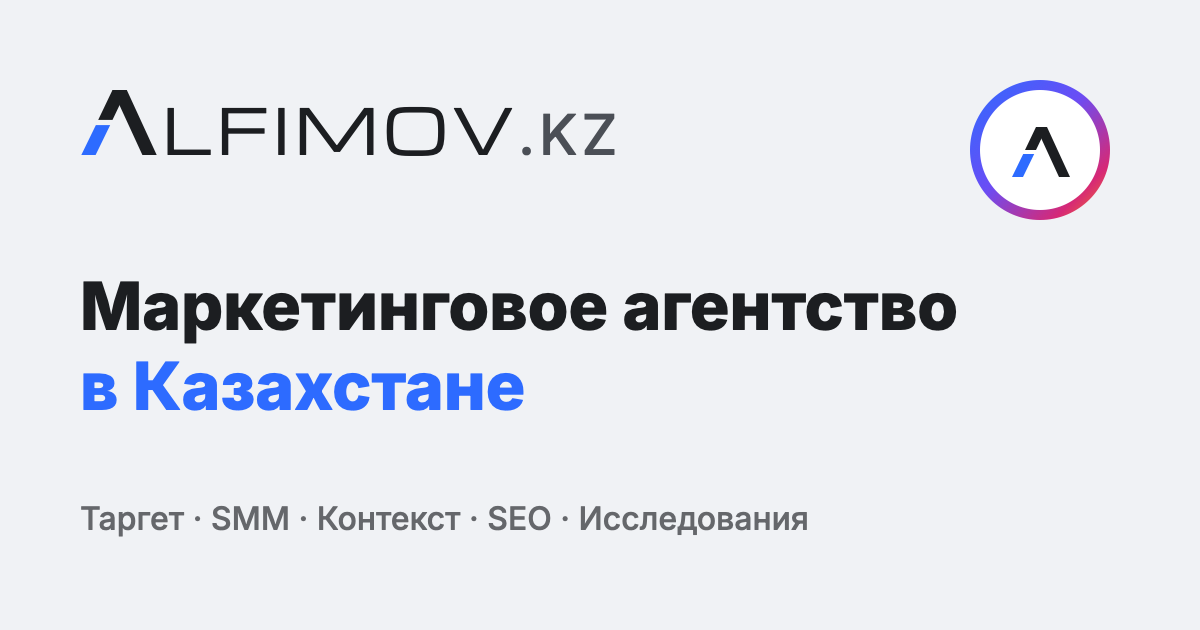
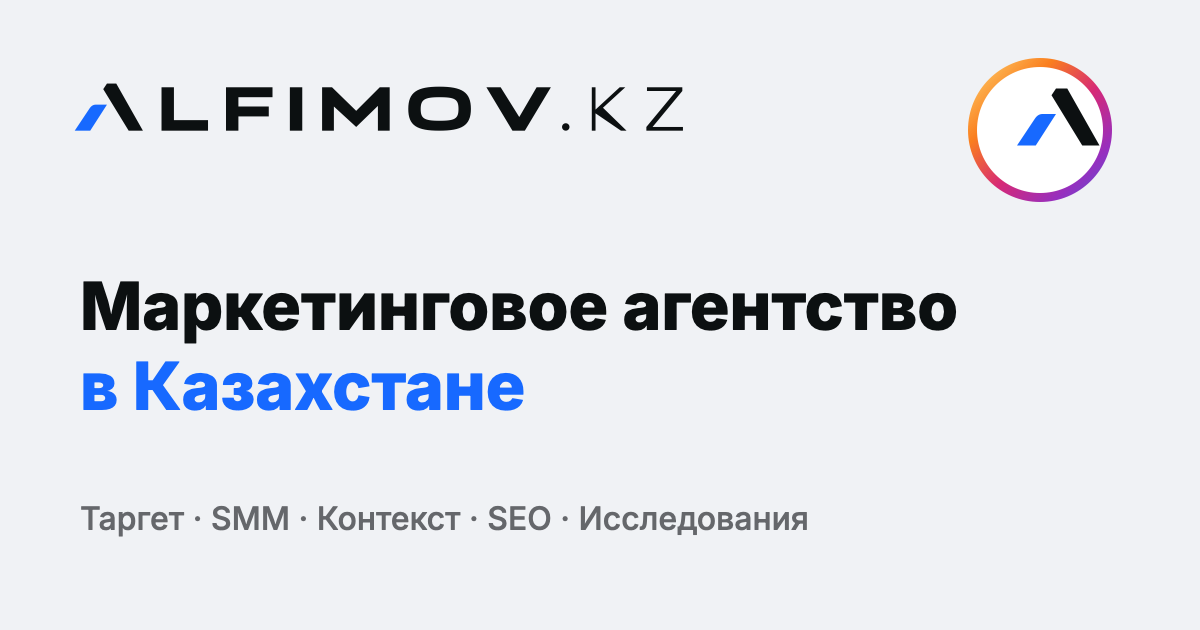
brand: финальный логотип ALFIMOV.KZ, фавиконки, манифест, цвета #1769FF/#0C1011

Changed region(s): [[0.0617, 0.1206, 0.5858, 0.2714], [0.8017, 0.0905, 0.925, 0.3619]]

diff --git a/static/assets/style.css b/static/assets/style.css
@@ -4,13 +4,13 @@
   --bg: #f0f2f5;
   --surface: #ffffff;
   --hover: #f2f3f5;
-  --ink: #1c1e21;
+  --ink: #0c1011;
   --ink-2: #4b4f56;
   --muted: #65676b;
   --line: #e4e6eb;
-  --blue: #2d6bff;
-  --blue-hover: #1a56e8;
-  --blue-soft: #e8f0ff;
+  --blue: #1769ff;
+  --blue-hover: #0f57e0;
+  --blue-soft: #e7efff;
   --green: #42b72a;
   --green-hover: #36a420;
   --ig: linear-gradient(45deg, #feda75 0%, #fa7e1e 25%, #d62976 50%, #962fbf 75%, #4f5bd5 100%);
@@ -20,7 +20,6 @@
   --radius-lg: 16px;
   --wrap: 1140px;
   --font: "Inter", system-ui, -apple-system, "Segoe UI", Roboto, Helvetica, Arial, sans-serif;
-  --font-logo: "Michroma", "Arial Black", sans-serif;
 }
 
 *, *::before, *::after { box-sizing: border-box; }
@@ -55,13 +54,10 @@ section[id] { scroll-margin-top: 72px; }
 @media (min-width: 720px) { .panel { padding: 32px; } }
 
 /* logo */
-.logo {
-  display: inline-flex; align-items: center; gap: .08em; text-decoration: none; color: var(--ink);
-  font-family: var(--font-logo); font-size: 19px; line-height: 1; letter-spacing: .06em; white-space: nowrap;
-}
-.logo-a { width: auto; height: .92em; margin-right: .02em; }
-.logo-word { font-weight: 400; }
-.logo-kz { font-family: var(--font); font-weight: 400; letter-spacing: .12em; color: var(--ink-2); margin-left: .05em; font-size: .92em; }
+.logo { display: inline-flex; align-items: center; color: #0c1011; text-decoration: none; }
+.logo svg { height: 20px; width: auto; }
+@media (min-width: 720px) { .logo svg { height: 22px; } }
+.logo-mark { width: auto; height: 16px; }
 
 /* buttons */
 .btn {
@@ -146,7 +142,7 @@ section[id] { scroll-margin-top: 72px; }
 .post-hd { display: flex; align-items: center; gap: 10px; padding: 12px 14px; }
 .avatar { display: grid; place-items: center; width: 38px; height: 38px; border-radius: 50%; background: var(--ig); padding: 2px; flex: none; }
 .avatar > span { display: grid; place-items: center; width: 100%; height: 100%; border-radius: 50%; background: #fff; border: 2px solid #fff; color: var(--ink); }
-.avatar .logo-a { height: 13px; }
+.avatar .logo-mark { height: 15px; }
 .post-who { display: grid; line-height: 1.25; font-size: 14px; }
 .post-who small { color: var(--muted); font-size: 12px; }
 .post-dots { margin-left: auto; color: var(--ink); letter-spacing: 1px; font-size: 12px; }
@@ -154,7 +150,7 @@ section[id] { scroll-margin-top: 72px; }
   aspect-ratio: 1 / 1; padding: 28px; display: flex; flex-direction: column; justify-content: space-between;
   background:
     radial-gradient(circle at 85% 15%, rgba(255, 255, 255, .35), transparent 40%),
-    linear-gradient(150deg, #2d6bff 0%, #6a4df5 45%, #d62976 80%, #fa7e1e 100%);
+    linear-gradient(150deg, #1769ff 0%, #6a4df5 45%, #d62976 80%, #fa7e1e 100%);
   color: #fff;
 }
 .post-title { font-size: clamp(26px, 3.2vw, 32px); font-weight: 800; line-height: 1.1; letter-spacing: -0.02em; margin: 0; }

diff --git a/build.py b/build.py
@@ -30,7 +30,7 @@ PHONE_DISPLAY = "+7 776 902 66 69"
 PHONE_TEL = "+77769026669"
 WHATSAPP_URL = "https://wa.me/77769026669"
 TELEGRAMS = ["fandylol", "etozhefandy"]
-FONT_URL = "https://fonts.googleapis.com/css2?family=Inter:wght@400;500;600;700;800&family=Michroma&display=swap"
+FONT_URL = "https://fonts.googleapis.com/css2?family=Inter:wght@400;500;600;700;800&display=swap"
 ASSET_VER = hashlib.md5(
     b"".join((STATIC / "assets" / f).read_bytes() for f in ("style.css", "main.js"))
 ).hexdigest()[:8]
@@ -77,17 +77,31 @@ def icon(name, cls="ic"):
     )
 
 
-# Знак «Λ» из логотипа: левая нога — чёрный верх и синий низ, правая — чёрная.
-LOGO_MARK = (
-    '<svg class="logo-a" viewBox="0 0 60 50" aria-hidden="true">'
-    '<path d="M25 0h11L59 50H48Z" fill="currentColor"/>'
-    '<path d="M25 0h11L25 23H14Z" fill="currentColor"/>'
-    '<path d="M12.2 27h11L12 50H1Z" fill="var(--blue)"/></svg>'
+# Логотип ALFIMOV.KZ (векторные контуры из brand-kit, static/assets/brand/).
+LOGO_BLUE = "#1769FF"
+LOGO_MARK_PATHS = (
+    f'<path fill="{LOGO_BLUE}" d="M56 114 80 78 Q84 72 90 72 H108 L81 114Z"/>'
+    '<path d="M102 47 108 38 H123 L166 114 H143Z"/>'
 )
+LOGO_WORD_PATHS = (
+    '<path d="M196 44H216V97H271V114H196Z"/>'
+    '<path d="M300 44H375V60H320V75H369V91H320V114H300Z"/>'
+    '<path d="M403 44H423V114H403Z"/>'
+    '<path d="M455 44H471L510 82 548 44H564V114H545V74L510 108 474 75V114H455Z"/>'
+    '<path fill-rule="evenodd" d="M644 43C608 43 594 52 594 79S608 114 644 114 695 106 695 79 681 43 644 43ZM644 60C669 60 675 63 675 79S669 98 644 98 614 94 614 79 620 60 644 60Z"/>'
+    '<path d="M720 44H743L773 92 801 44H824L782 114H762Z"/>'
+    '<path d="M854 108A6 6 0 1 1 842 108A6 6 0 1 1 854 108Z"/>'
+    '<path d="M890 44H896V80L935 44H944L908 77 946 114H937L896 86V114H890Z"/>'
+    '<path d="M979 44H1036V50L988 108H1037V114H978V108L1026 50H979Z"/>'
+)
+LOGO_MARK = f'<svg class="logo-mark" viewBox="52 34 118 84" fill="currentColor" aria-hidden="true">{LOGO_MARK_PATHS}</svg>'
 
 
 def logo(href):
-    return f'<a class="logo" href="{href}" aria-label="ALFIMOV.KZ">{LOGO_MARK}<span class="logo-word">LFIMOV</span><span class="logo-kz">.KZ</span></a>'
+    return (
+        f'<a class="logo" href="{href}" aria-label="ALFIMOV.KZ">'
+        f'<svg viewBox="52 34 990 84" fill="currentColor" role="img" aria-hidden="true">{LOGO_MARK_PATHS}{LOGO_WORD_PATHS}</svg></a>'
+    )
 
 
 # ---------------------------------------------------------------- helpers
@@ -107,7 +121,7 @@ def org_schema():
         "@id": f"{SITE_URL}/#org",
         "name": BRAND,
         "url": f"{SITE_URL}/",
-        "logo": f"{SITE_URL}/assets/logo.png",
+        "logo": f"{SITE_URL}/assets/brand/icon-512.png",
         "image": f"{SITE_URL}/assets/og.png",
         "telephone": PHONE_TEL,
         "priceRange": "$$",
@@ -278,8 +292,10 @@ def page(c, *, path, title, desc, body, schema, alt_path, noindex=False):
 <meta property="og:image" content="{SITE_URL}/assets/og.png">
 <meta name="twitter:card" content="summary_large_image">
 <meta name="theme-color" content="#ffffff">
+<link rel="icon" href="/favicon.ico" sizes="any">
 <link rel="icon" href="/favicon.svg" type="image/svg+xml">
-<link rel="apple-touch-icon" href="/assets/logo.png">
+<link rel="apple-touch-icon" href="/assets/brand/apple-touch-icon.png">
+<link rel="manifest" href="/assets/brand/site.webmanifest">
 <link rel="preconnect" href="https://fonts.googleapis.com">
 <link rel="preconnect" href="https://fonts.gstatic.com" crossorigin>
 <link rel="stylesheet" href="{FONT_URL}">
